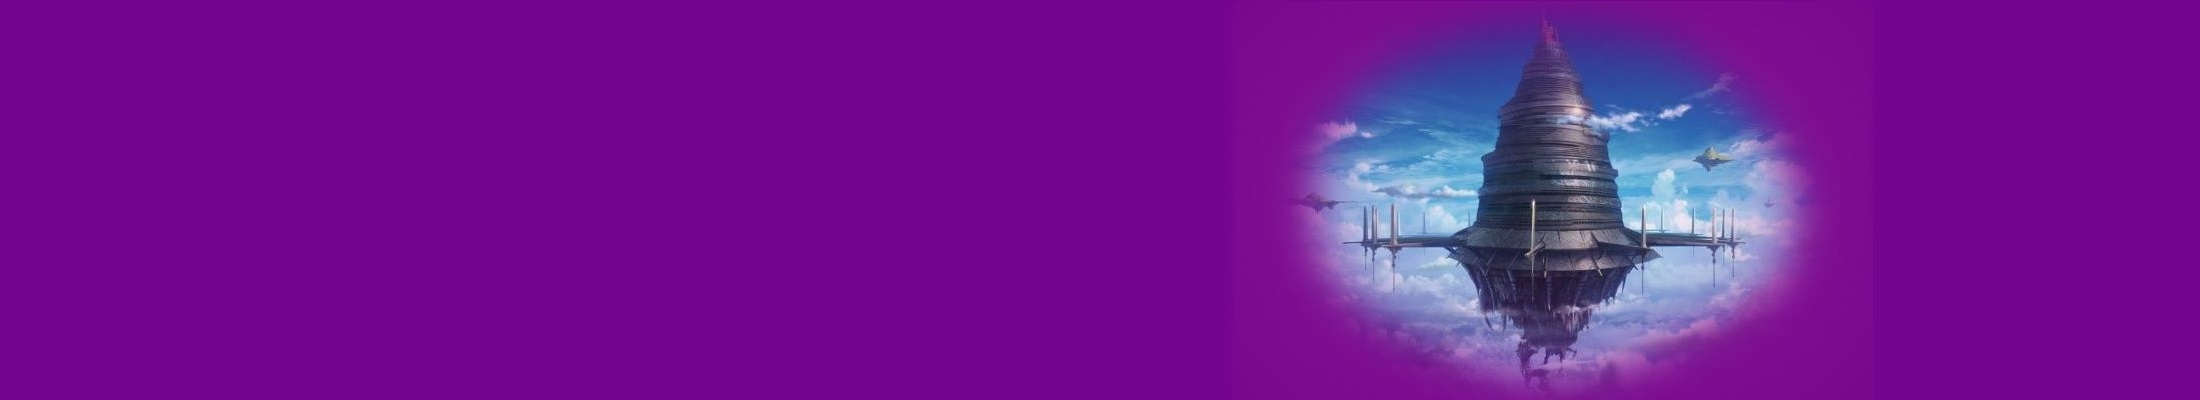
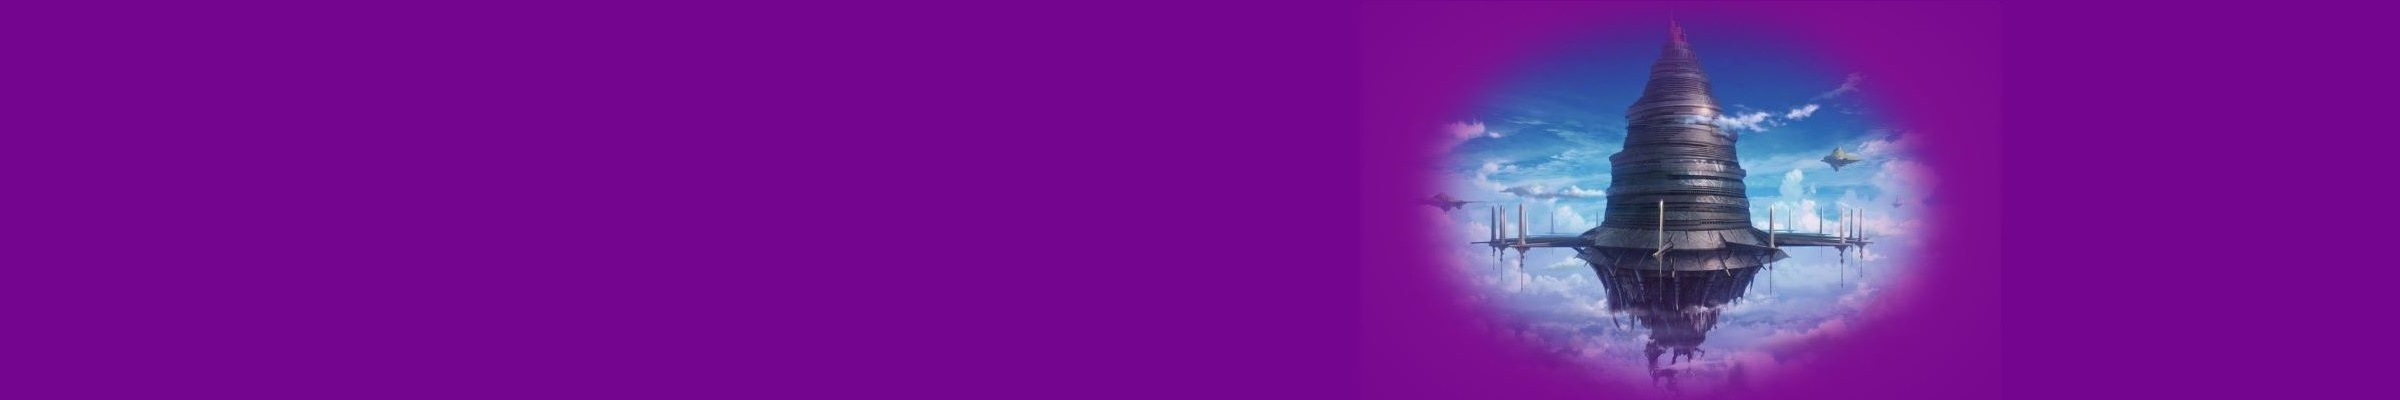
update

Changed region(s): [[0.5873, 0.06, 0.8345, 0.96], [0.5873, 0.3, 0.6182, 0.36], [0.5873, 0.42, 0.6182, 0.45]]

diff --git a/index.html b/index.html
@@ -4,21 +4,67 @@
     
 <head>
     <title>Realize Your Innovations</title>
-    <link rel="stylesheet" type="text/css" href="https://github.com/Kotokowa/AAGrant/raw/main/css/header.css">
+    <link rel="stylesheet" type="text/css" href="css/header.css">
     <meta name="description" content="AAGrant-Realize Your Innovations"/>
     <meta name="author" content="Kotokowa"/>
     <meta name="viewport" content="width=device-width, initial-scale=1.0">
     <meta http-equiv="imagetoolbar" content="false"/>
-    <link rel="icon" type="image/png" sizes="96*96" href="https://raw.githubusercontent.com/Kotokowa/AAGrant/main/resources/icon.jpg"/>
+    <link rel="icon" type="image/png" sizes="96*96" href="resources/icon.jpg"/>
 
 </head>
 
 <body>
 
     <div class="header">
+        <img class="headerbackground" src="resources/header1.jpg" alt="">
         <a href="/AAGrant" id="gohome">
-            <img src="https://raw.githubusercontent.com/Kotokowa/AAGrant/main/resources/homepage.png" alt="Homepage">
+            <img class="homepage" src="resources/homepage.png" alt="Homepage">
         </a>
     </div>
+
+    <div class="main">
+        <ul class="branch">
+            <li><a href="#">FORUMS</a></li>
+            <li><a href="#">Alfheim Online</a></li>
+            <li><a href="#">General discussion</a></li>
+            <li><a href="#">Latest Post</a></li>
+        </ul>
+        <a href="#" id="tweet">
+            <img src="resources/tweet.png" alt="tweet">
+        </a>
+        <a href="#" id="search">
+            <img src="resources/search.png" alt="search">
+        </a>
+    </div>
+    <p><br></p>
+
+    <div class="postpage">
+        <div class="post">
+            <img src="resources/tag.png" alt="">
+            <p>dobedobedo</p>
+        </div>
+        <div class="post">
+            <img src="resources/tag.png" alt="">
+            <p>dobedobedo</p>
+        </div>
+        <div class="post">
+            <img src="resources/tag.png" alt="">
+            <p>dobedobedo</p>
+        </div>
+        <div class="post">
+            <img src="resources/tag.png" alt="">
+            <p>dobedobedo</p>
+        </div>
+        <div class="post">
+            <img src="resources/tag.png" alt="">
+            <p>dobedobedo</p>
+        </div>
+        <div class="post">
+            <img src="resources/tag.png" alt="">
+            <p>dobedobedo</p>
+        </div>
+    </div>
+
+
 </body>
 </html>

diff --git a/css/header.css b/css/header.css
@@ -5,12 +5,92 @@ body{
 
 .header{
     width: 100%;
+    min-width: 600px;
     height: auto;
     margin: 0;
-    background-image: url("https://raw.githubusercontent.com/Kotokowa/AAGrant/main/resources/header1.jpg");
 }
 
-#gohome{
-    height: 100%;
-    width: auto;
+div.header img.headerbackground{
+    width: 100%;
+    height: auto;
 }
+
+@media screen and (max-size: 1200px) {
+    img.homepage {
+        height: 80px;
+        width: auto;
+    }
+}
+
+.homepage{
+    position: absolute;
+    top: 0;
+    left: 0;
+    margin: 0;
+    object-fit: contain;
+    clear: both;
+}
+
+#search, #tweet{
+    float: right;
+    margin-right: 20px;
+    vertical-align: middle;
+}
+
+@media only screen and (max-width: 600px) {
+    #search, #tweet{
+        float: right;
+        margin-right: 20px;
+        height: 70%;
+        width: 70%;
+        vertical-align: middle;
+    }
+    
+}
+
+ul.branch{
+    float: left;
+    margin-left: 20px;
+    margin-right: 20px;
+    list-style: none;
+}
+
+ul.branch li, ul.branch li a {
+    margin-top: 18px;
+    text-decoration: none;
+    display: inline;
+    color: #aaa;
+}
+
+ul.branch li+li:before {
+    padding: 8px;
+    color: lightblue;
+    content: ">\00a0";
+}
+
+div.postpage{
+    margin-left: 20px;
+    margin-top: 30px;
+    background-color: #e9dac9;
+    border: #aaa 10px;
+}
+
+div.postpage div.post img{
+    float: left;
+    clear: left;
+}
+
+div.post{
+    border-bottom: #aaa 5px;
+}
+
+div.postpage div.post p{
+    margin-left: 10px;
+    vertical-align: middle;
+}
+
+div.post::after {
+    content: "";
+    clear: both;
+    display: table;
+  }
